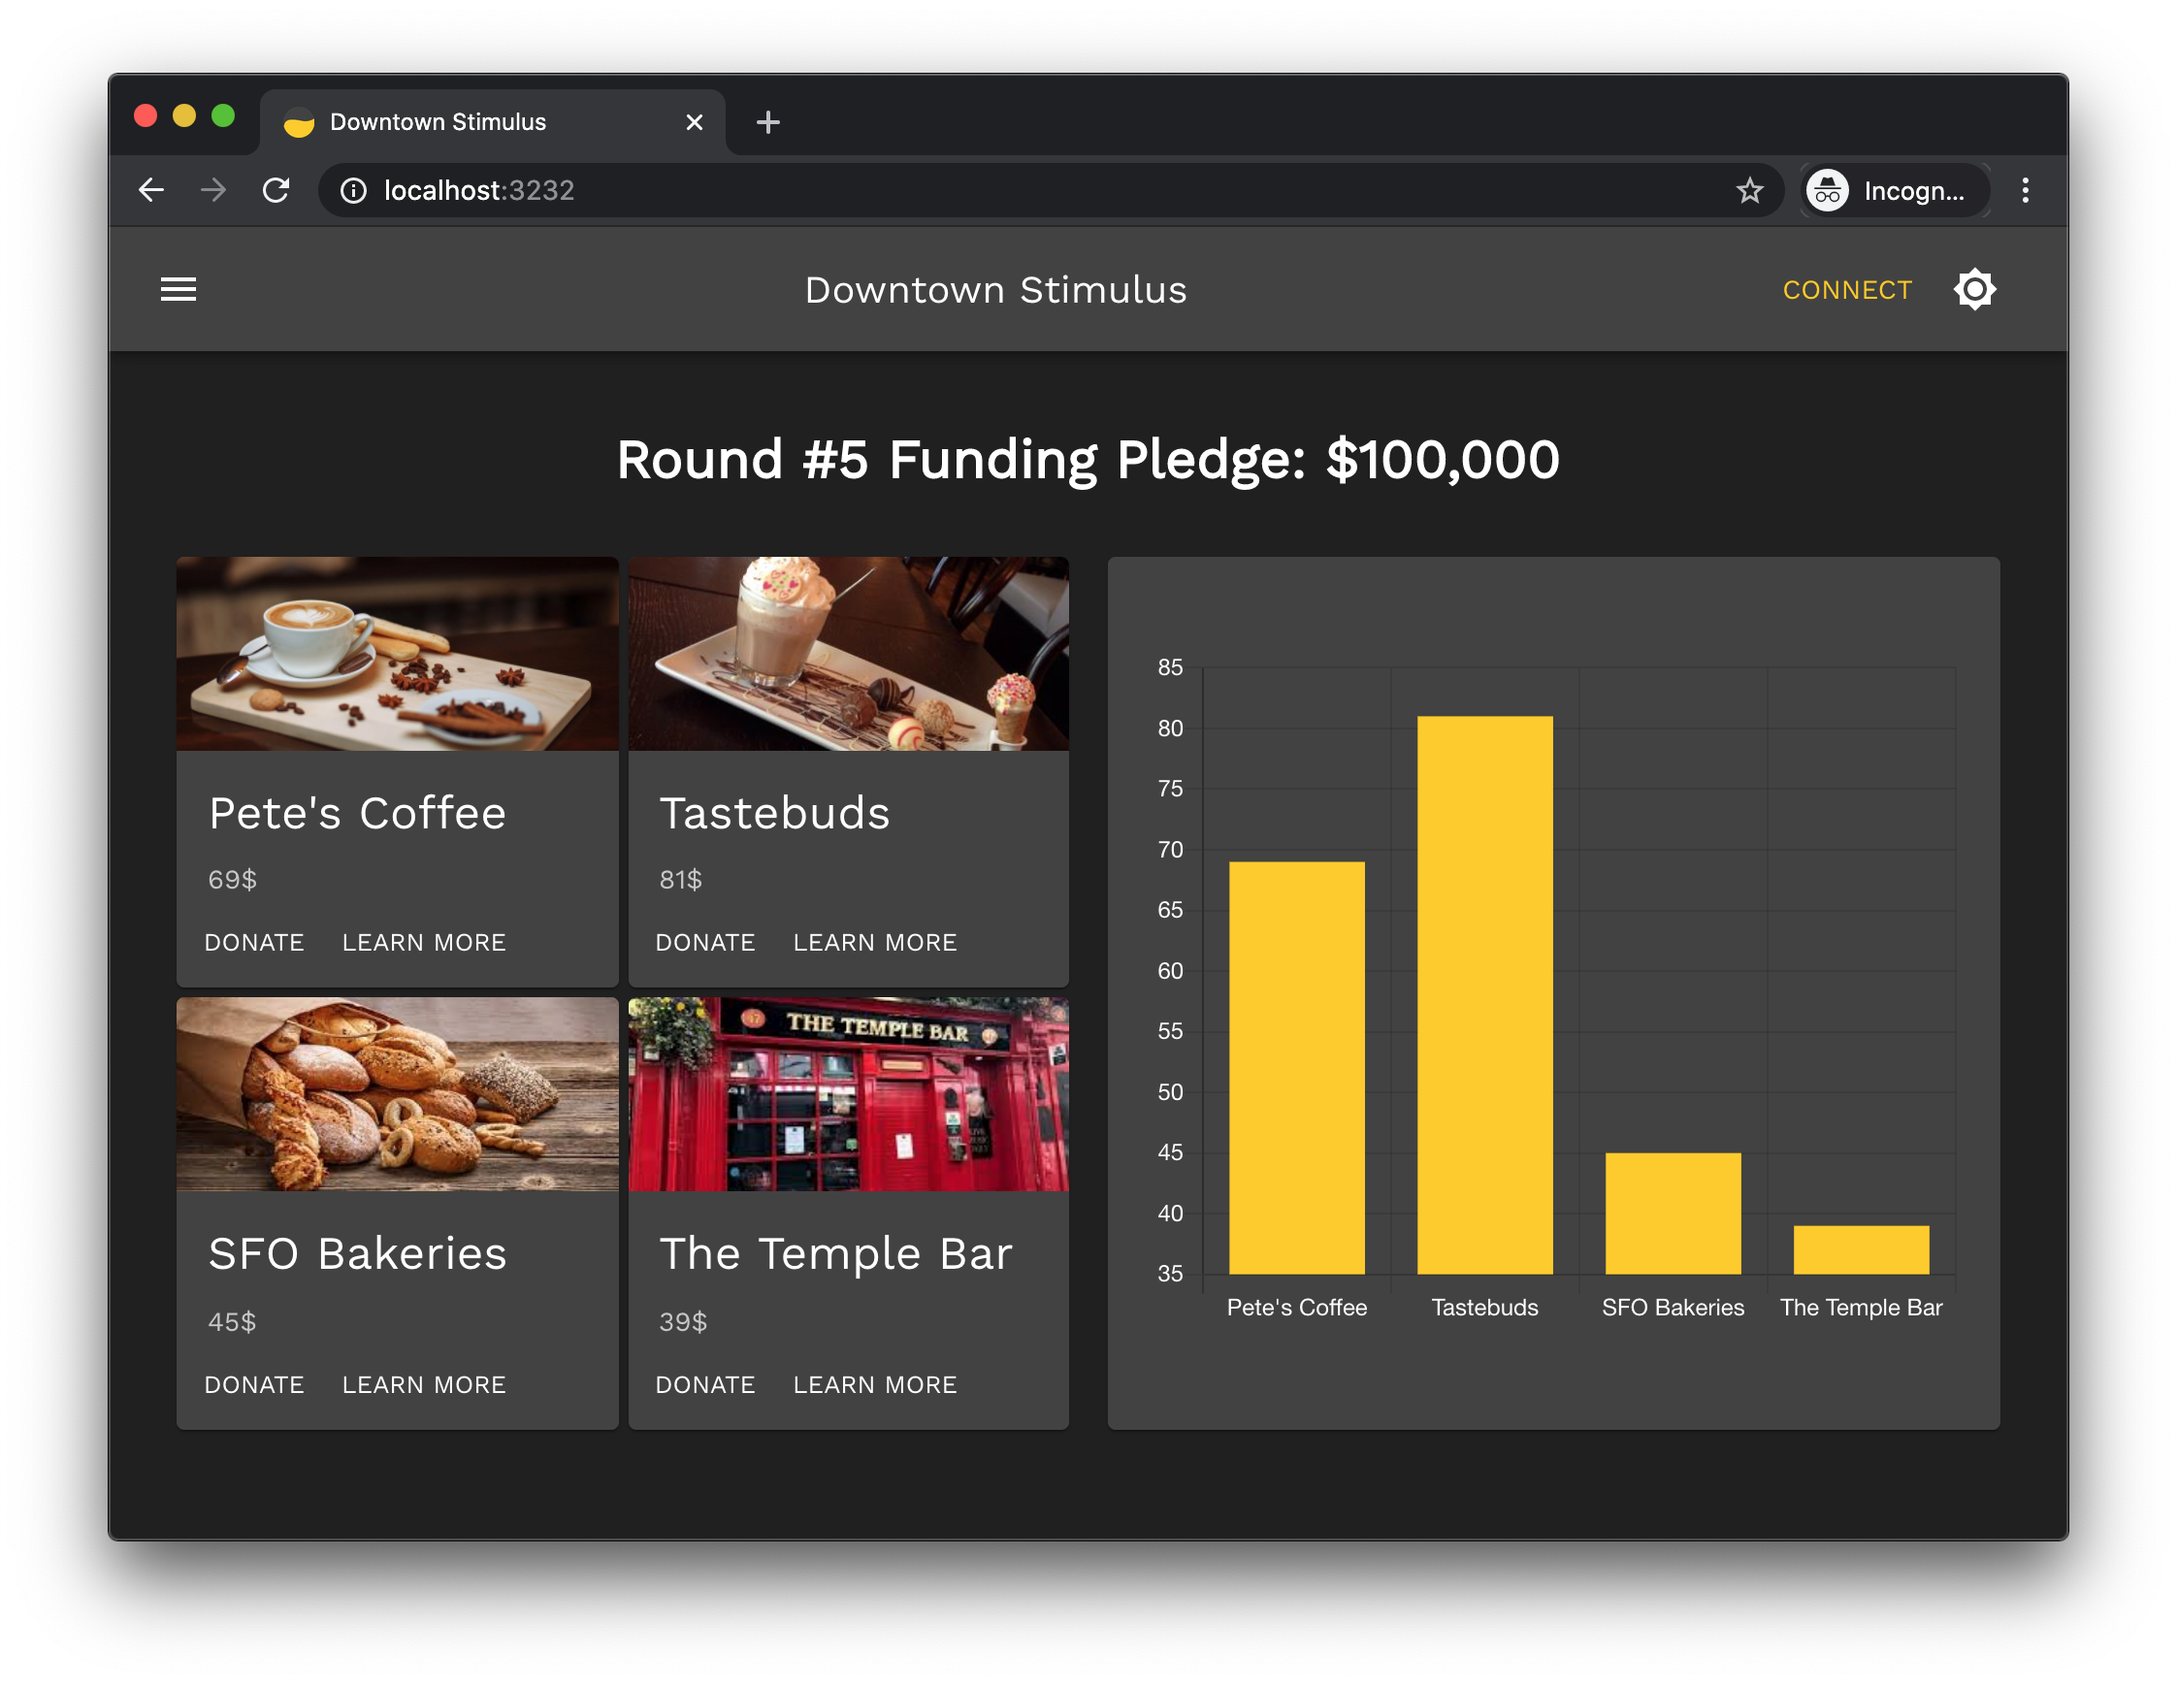
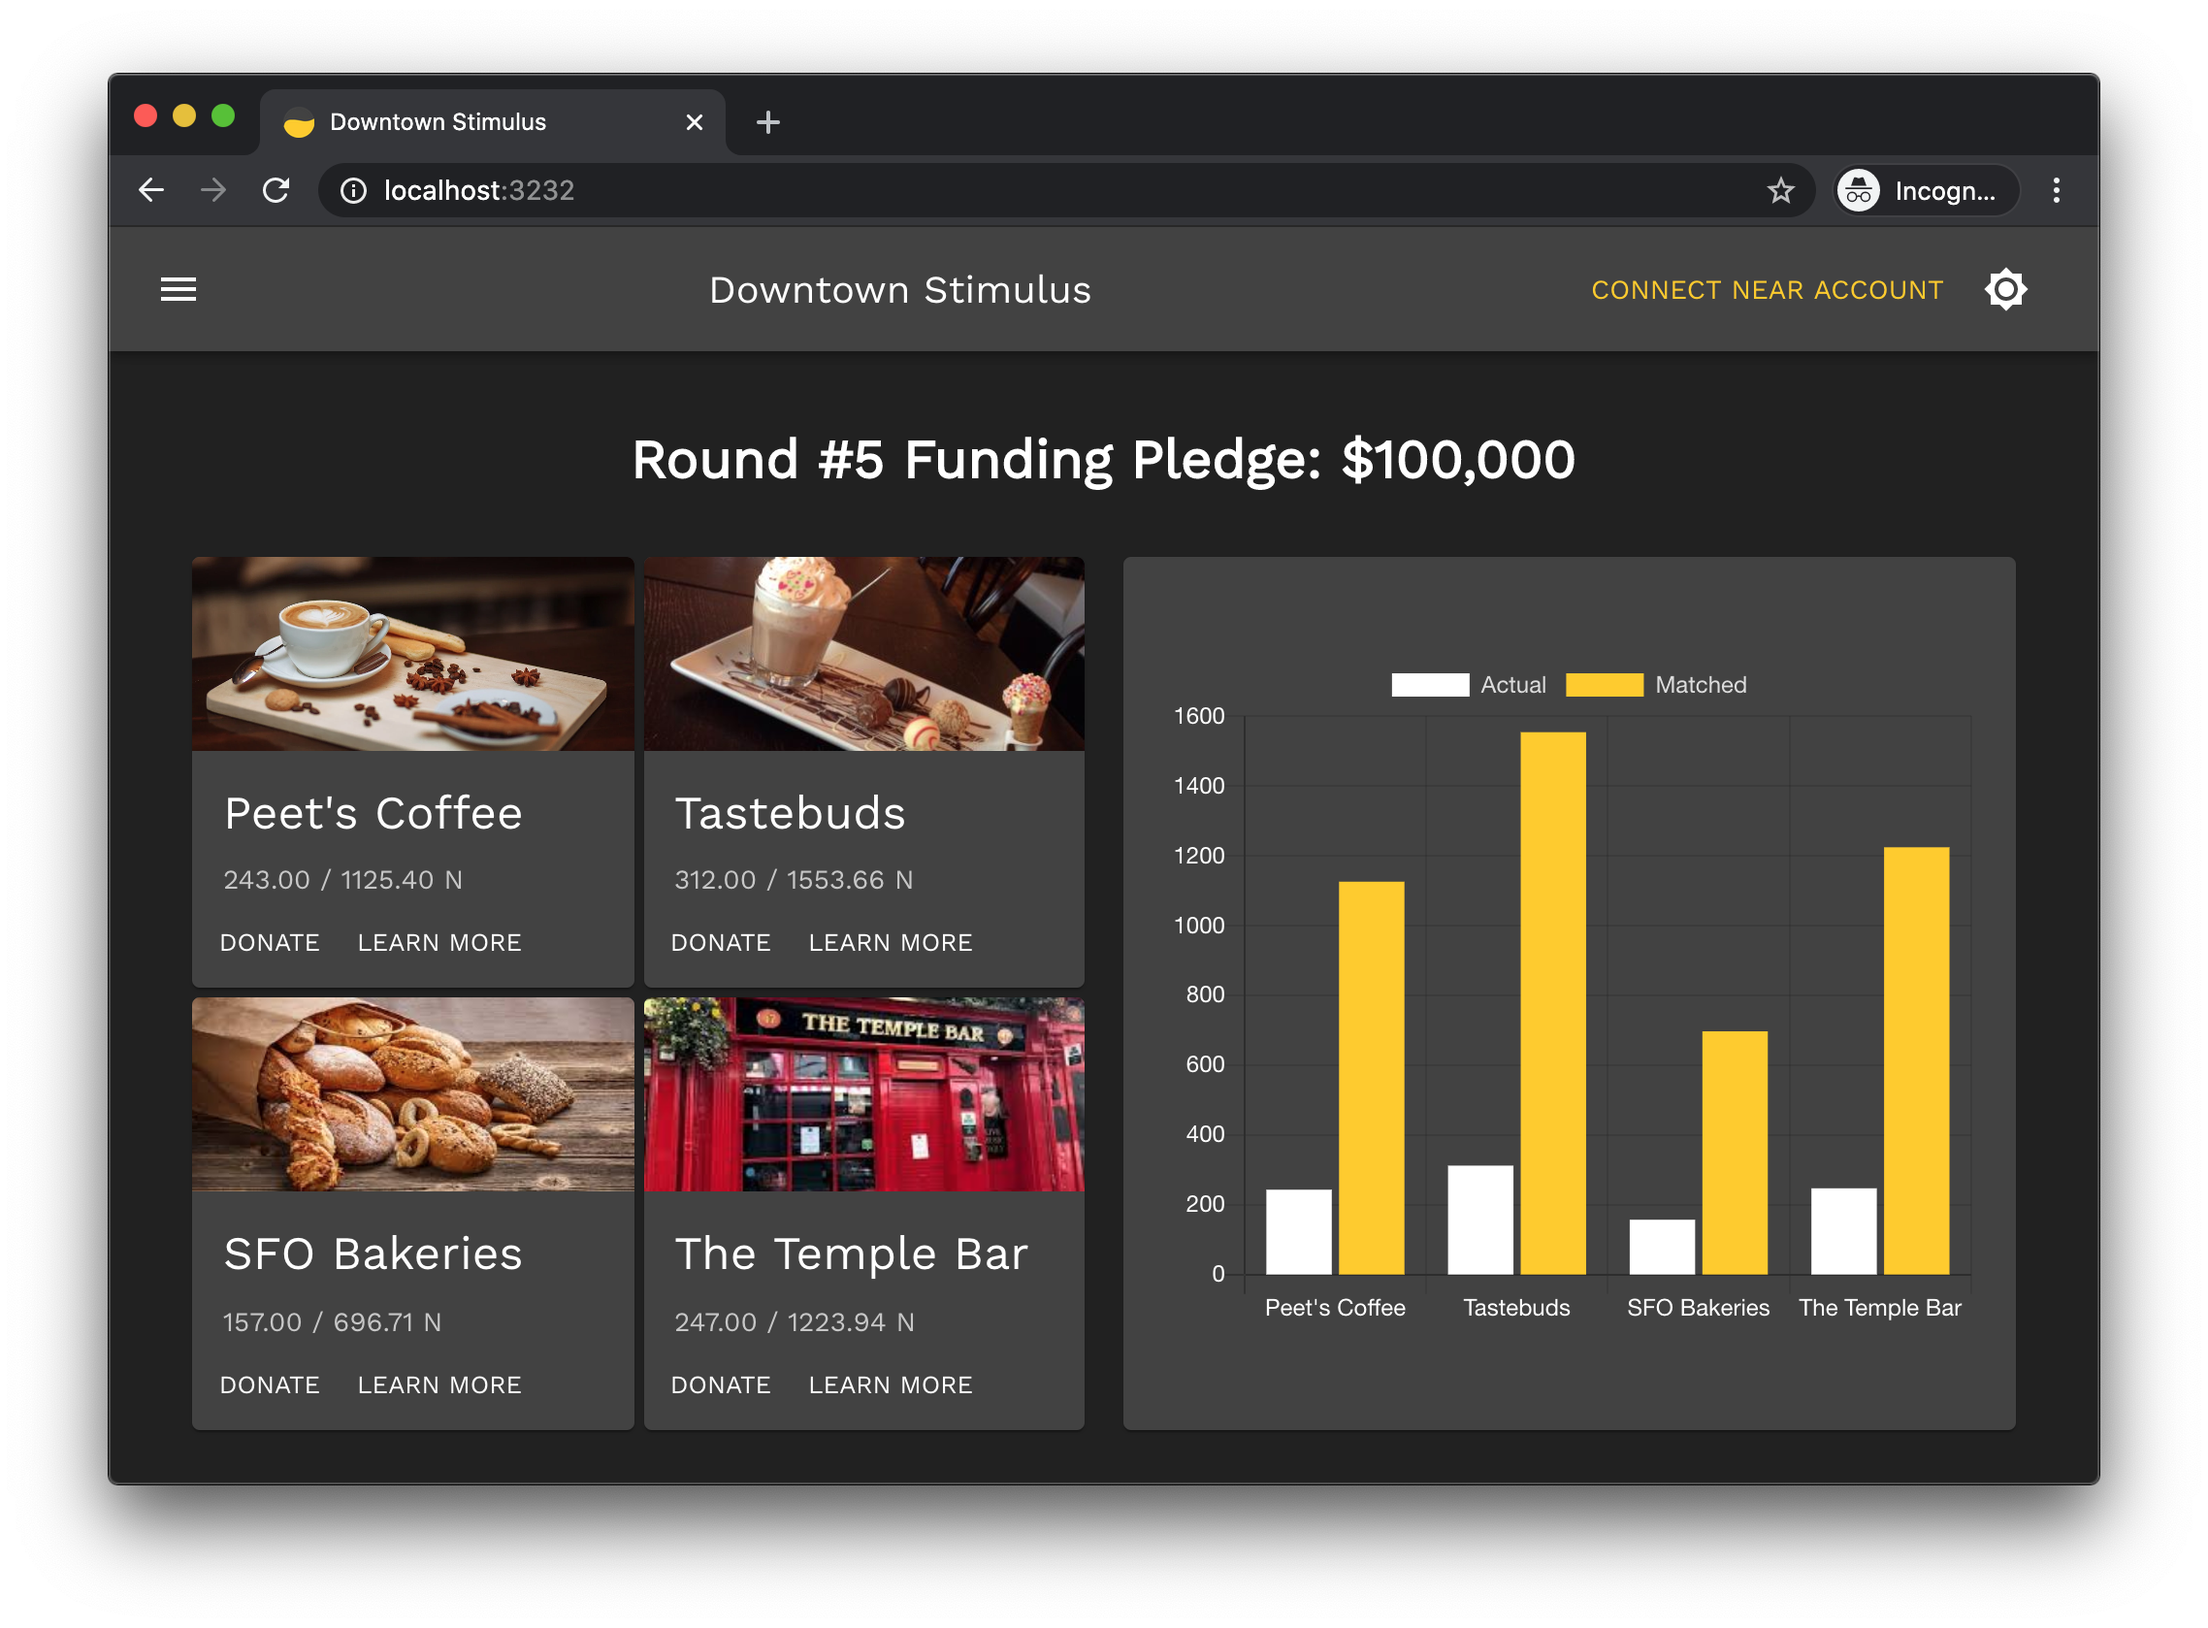
feat: actual/matched donations mockup

diff --git a/frontend/src/components/Donations.js b/frontend/src/components/Donations.js
@@ -11,7 +11,7 @@ const useStyles = makeStyles({
   },
 });
 
-function Component({ x, y }) {
+function Component({ x, totalDonations, totalMatchedDonations }) {
   const classes = useStyles();
   const chartRef = React.useRef();
 
@@ -22,8 +22,15 @@ function Component({ x, y }) {
         labels: 'Business',
         datasets: [
           {
-            label: 'CLR Match',
-            data: y,
+            label: 'Actual',
+            data: totalDonations,
+            backgroundColor: '#fff',
+            borderColor: '#fff',
+            fill: false,
+          },
+          {
+            label: 'Matched',
+            data: totalMatchedDonations,
             backgroundColor: '#fc0',
             borderColor: '#fff',
             fill: false,
@@ -34,6 +41,9 @@ function Component({ x, y }) {
         maintainAspectRatio: false,
         legend: {
           // display: false,
+          labels: {
+            fontColor: '#ddd',
+          },
           onClick(e) {
             e.stopPropagation();
           },
@@ -49,9 +59,10 @@ function Component({ x, y }) {
     //
     // React.useEffect(() => {
     chart.data.labels = x;
-    chart.data.datasets[0].data = y;
+    chart.data.datasets[0].data = totalDonations;
+    chart.data.datasets[1].data = totalMatchedDonations;
     chart.update();
-  }, [x, y]); // eslint-disable-line react-hooks/exhaustive-deps
+  }, [totalDonations, totalMatchedDonations]); // eslint-disable-line react-hooks/exhaustive-deps
 
   return (
     <Paper className={classes.root}>
@@ -60,10 +71,10 @@ function Component({ x, y }) {
   );
 }
 
-export default connect(
-  ({ data: { businesses, donations } }) => ({
+export default connect((state, { businesses }) => {
+  return {
     x: businesses.map(b => b.name),
-    y: donations,
-  }),
-  mapDispatchToProps
-)(Component);
+    totalDonations: businesses.map(b => b.totalDonations),
+    totalMatchedDonations: businesses.map(b => b.totalMatchedDonations),
+  };
+}, mapDispatchToProps)(Component);

diff --git a/frontend/src/components/Home.js b/frontend/src/components/Home.js
@@ -3,7 +3,7 @@ import { connect } from 'react-redux';
 import * as mapDispatchToProps from 'actions';
 import { makeStyles } from '@material-ui/core/styles';
 import clsx from 'clsx';
-import { Button } from '@material-ui/core';
+import { businessesSelector } from 'selectors/data';
 import Loader from './Loader';
 import Business from './Business';
 import Donations from './Donations';
@@ -43,7 +43,6 @@ function Component({
   activateWallet,
   isLoggedIn,
   businesses,
-  donations,
 }) {
   const classes = useStyles();
 
@@ -57,13 +56,13 @@ function Component({
         <div className={clsx('flex', classes.sectionsContainer)}>
           <div>
             <div className={clsx(classes.businesses)}>
-              {businesses.map((b, i) => (
-                <Business key={b.id} business={b} donation={donations[i]} />
+              {businesses.map(b => (
+                <Business key={b.id} business={b} />
               ))}
             </div>
           </div>
           <div>
-            <Donations />
+            <Donations businesses={businesses} />
           </div>
         </div>
       </div>
@@ -77,11 +76,12 @@ function Component({
   );
 }
 
-export default connect(
-  ({ data: { businesses, donations }, wallet: { isLoggedIn } }) => ({
+export default connect(state => {
+  const {
+    wallet: { isLoggedIn },
+  } = state;
+  return {
     isLoggedIn,
-    businesses,
-    donations,
-  }),
-  mapDispatchToProps
-)(Component);
+    businesses: businessesSelector(state),
+  };
+}, mapDispatchToProps)(Component);

diff --git a/frontend/src/components/Business.js b/frontend/src/components/Business.js
@@ -1,4 +1,6 @@
 import React from 'react';
+import { connect } from 'react-redux';
+import * as mapDispatchToProps from 'actions';
 import { makeStyles } from '@material-ui/core/styles';
 import Card from '@material-ui/core/Card';
 import CardActionArea from '@material-ui/core/CardActionArea';
@@ -19,7 +21,7 @@ const useStyles = makeStyles({
   },
 });
 
-export default function({ business, donation }) {
+function Component({ business, totalMatchedDonations }) {
   const classes = useStyles();
 
   return (
@@ -35,7 +37,8 @@ export default function({ business, donation }) {
             {business.name}
           </Typography>
           <Typography variant="body2" color="textSecondary" component="p">
-            {donation}$
+            {business.totalDonations.toFixed(2)} /{' '}
+            {business.totalMatchedDonations.toFixed(2)} N
           </Typography>
         </CardContent>
       </CardActionArea>
@@ -50,3 +53,7 @@ export default function({ business, donation }) {
     </Card>
   );
 }
+
+export default connect((state, { index }) => {
+  return {};
+}, mapDispatchToProps)(Component);

diff --git a/frontend/src/reducers/data.js b/frontend/src/reducers/data.js
@@ -4,7 +4,7 @@ const DEFAULT_STATE = {
   businesses: [
     {
       id: 1,
-      name: 'Pete\'s Coffee',
+      name: 'Peet\'s Coffee',
       image:
         'https://img.theculturetrip.com/x/smart/wp-content/uploads/2018/02/coffee-3120750_1280-1.jpg',
     },
@@ -26,8 +26,13 @@ const DEFAULT_STATE = {
       image:
         'https://encrypted-tbn0.gstatic.com/images?q=tbn%3AANd9GcQNU6TVcyVq16CovYsknkWpale5iqumYURRe7F7D5igl6V_9NsN&usqp=CAU',
     },
-  ],
-  donations: new Array(4).fill(0).map(() => Math.floor(Math.random() * 100)),
+  ].map(b => {
+    b.donations = new Array(4)
+      .fill(0)
+      .map(() => Math.floor(Math.random() * 100));
+    b.totalDonations = b.donations.reduce((sum, d) => sum + d, 0);
+    return b;
+  }),
 };
 
 export default (state = DEFAULT_STATE, action) => {

diff --git a/frontend/src/selectors/data.js b/frontend/src/selectors/data.js
@@ -1,0 +1,8 @@
+import { createSelector } from 'reselect';
+import clr from 'utils/clr';
+
+export const businessesSelector = createSelector(
+  state => state.data.businesses,
+  businesses =>
+    businesses.map(b => ({ ...b, totalMatchedDonations: clr(b.donations) }))
+);

diff --git a/README.md b/README.md
@@ -1,6 +1,6 @@
 ![](https://downtown-stimulus.surge.sh/shot.png)
 
-An attempt at simple quadratic funding using crypto for downtown businesses affected by covid-19; while learning some [rust](https://www.rust-lang.org) ;).
+An attempt at simple quadratic funding using crypto (NEAR) for downtown businesses affected by covid-19; while learning some [rust](https://www.rust-lang.org) ;).
 
 ### Todos
 
@@ -11,6 +11,11 @@ An attempt at simple quadratic funding using crypto for downtown businesses affe
 - [ ] Implement donation and CLR matching
 - [ ] Donation social media share
 - [ ] Funding window closure and payout to businesses
+
+### Tools
+
+- [React](https://reactjs.org/) - frontend
+- [Near Protocol](https://near.org/) - dapp backend
 
 ### Resources
 
